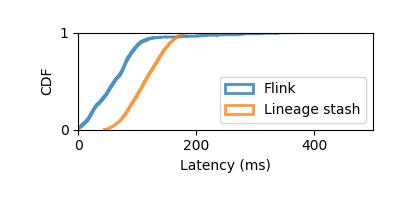
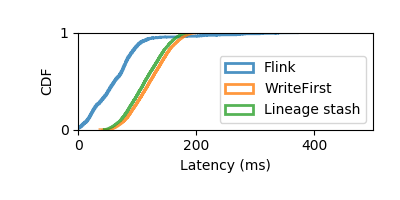
Updates to include WriteFirst in streaming examples

Changed region(s): [[0.54, 0.27, 0.93, 0.48], [0.24, 0.15, 0.48, 0.66], [0.54, 0.51, 0.66, 0.6]]

diff --git a/data/streaming/plot_recovery.py b/data/streaming/plot_recovery.py
@@ -111,7 +111,7 @@ def parse_throughputs(filename):
     return throughputs
 
 def plot_latencies(rows, save_filename):
-    fig, ax = plt.subplots(figsize=(8, 4))
+    fig, ax = plt.subplots()
     for label, row, _ in rows:
         x, y = zip(*row)
         plt.plot(x, y, label=label, linewidth=2)
@@ -130,7 +130,7 @@ def plot_latencies(rows, save_filename):
         plt.show()
 
 def plot_throughputs(rows, save_filename):
-    fig, ax = plt.subplots(figsize=(8, 4))
+    fig, ax = plt.subplots()
     for label, _, row in rows:
         x, y = zip(*row)
         y = [point / 100000 for point in y]
@@ -158,21 +158,41 @@ def mean_failure_latency(latencies):
             failure_latencies.append(latency)
     return np.mean(failure_latencies)
 
-def main(flink_filename, lineage_stash_filename, save_filename):
+def main(directory, save_filename):
+    flink_filename = None
+    lineage_stash_filename = None
+    writefirst_filename = None
+    for filename in os.listdir(directory):
+        if filename.startswith('failure-flink-latency'):
+            assert flink_filename is None
+            flink_filename = os.path.join(directory, filename)
+        elif filename.startswith('failure-latency'):
+            assert lineage_stash_filename is None
+            lineage_stash_filename = os.path.join(directory, filename)
+        elif filename.startswith('writefirst-failure-latency'):
+            assert writefirst_filename is None
+            writefirst_filename = os.path.join(directory, filename)
+
     flink_throughput_filename = flink_filename.replace('latency', 'throughput')
     lineage_stash_throughput_filename = lineage_stash_filename.replace('latency', 'throughput')
+    writefirst_throughput_filename = writefirst_filename.replace('latency', 'throughput')
 
     FILENAMES = [
+        ('Flink',
+        flink_filename,
+        flink_throughput_filename,
+        True,
+        10),
+        ('WriteFirst',
+        writefirst_filename,
+        writefirst_throughput_filename,
+        False,
+        10),
         ('Lineage stash',
         lineage_stash_filename,
         lineage_stash_throughput_filename,
         False,
         10),
-        ('Flink',
-        flink_filename,
-        flink_throughput_filename,
-        True,
-        10)
     ]
     stats = []
     for label, latency_filename, throughput_filename, is_flink, downsample in FILENAMES:
@@ -191,17 +211,13 @@ if __name__ == '__main__':
     import argparse
     parser = argparse.ArgumentParser(description='Benchmarks.')
     parser.add_argument(
-            '--flink-filename',
+            '--directory',
             type=str,
-            default='failure-flink-latency-32-workers-256000-tput-30-checkpoint-Aug-14-01-24-31.csv')
-    parser.add_argument(
-            '--lineage-stash-filename',
-            type=str,
-            default='failure-latency-32-workers-8-shards-1000-batch-256000-tput-30-checkpoint-Aug-14-01-28-29.csv')
+            default='32-workers')
     parser.add_argument(
             '--save-filename',
             type=str,
             default=None)
     args = parser.parse_args()
 
-    main(args.flink_filename, args.lineage_stash_filename, args.save_filename)
+    main(args.directory, args.save_filename)

diff --git a/data/streaming/plot_latency_cdf.py b/data/streaming/plot_latency_cdf.py
@@ -58,9 +58,24 @@ def plot_latencies(all_latencies, save_filename):
     else:
         plt.show()
 
-def main(flink_filename, lineage_stash_filename, save_filename):
+def main(directory, save_filename):
+    flink_filename = None
+    lineage_stash_filename = None
+    writefirst_filename = None
+    for filename in os.listdir(directory):
+        if filename.startswith('flink-latency'):
+            assert flink_filename is None
+            flink_filename = os.path.join(directory, filename)
+        elif filename.startswith('latency'):
+            assert lineage_stash_filename is None
+            lineage_stash_filename = os.path.join(directory, filename)
+        elif filename.startswith('writefirst-latency'):
+            assert writefirst_filename is None
+            writefirst_filename = os.path.join(directory, filename)
+
     filenames = [
         ('Flink', flink_filename),
+        ('WriteFirst', writefirst_filename),
         ('Lineage stash', lineage_stash_filename),
     ]
     all_latencies = []
@@ -85,17 +100,13 @@ if __name__ == '__main__':
     import argparse
     parser = argparse.ArgumentParser(description='Benchmarks.')
     parser.add_argument(
-            '--flink-filename',
+            '--directory',
             type=str,
-            default='flink-latency-32-workers-320000-tput-Aug-14-01-32-12.csv')
-    parser.add_argument(
-            '--lineage-stash-filename',
-            type=str,
-            default='latency-32-workers-8-shards-1000-batch-320000-tput-Aug-14-01-34-31.csv')
+            default='32-workers')
     parser.add_argument(
             '--save-filename',
             type=str,
             default=None)
     args = parser.parse_args()
 
-    main(args.flink_filename, args.lineage_stash_filename, args.save_filename)
+    main(args.directory, args.save_filename)
